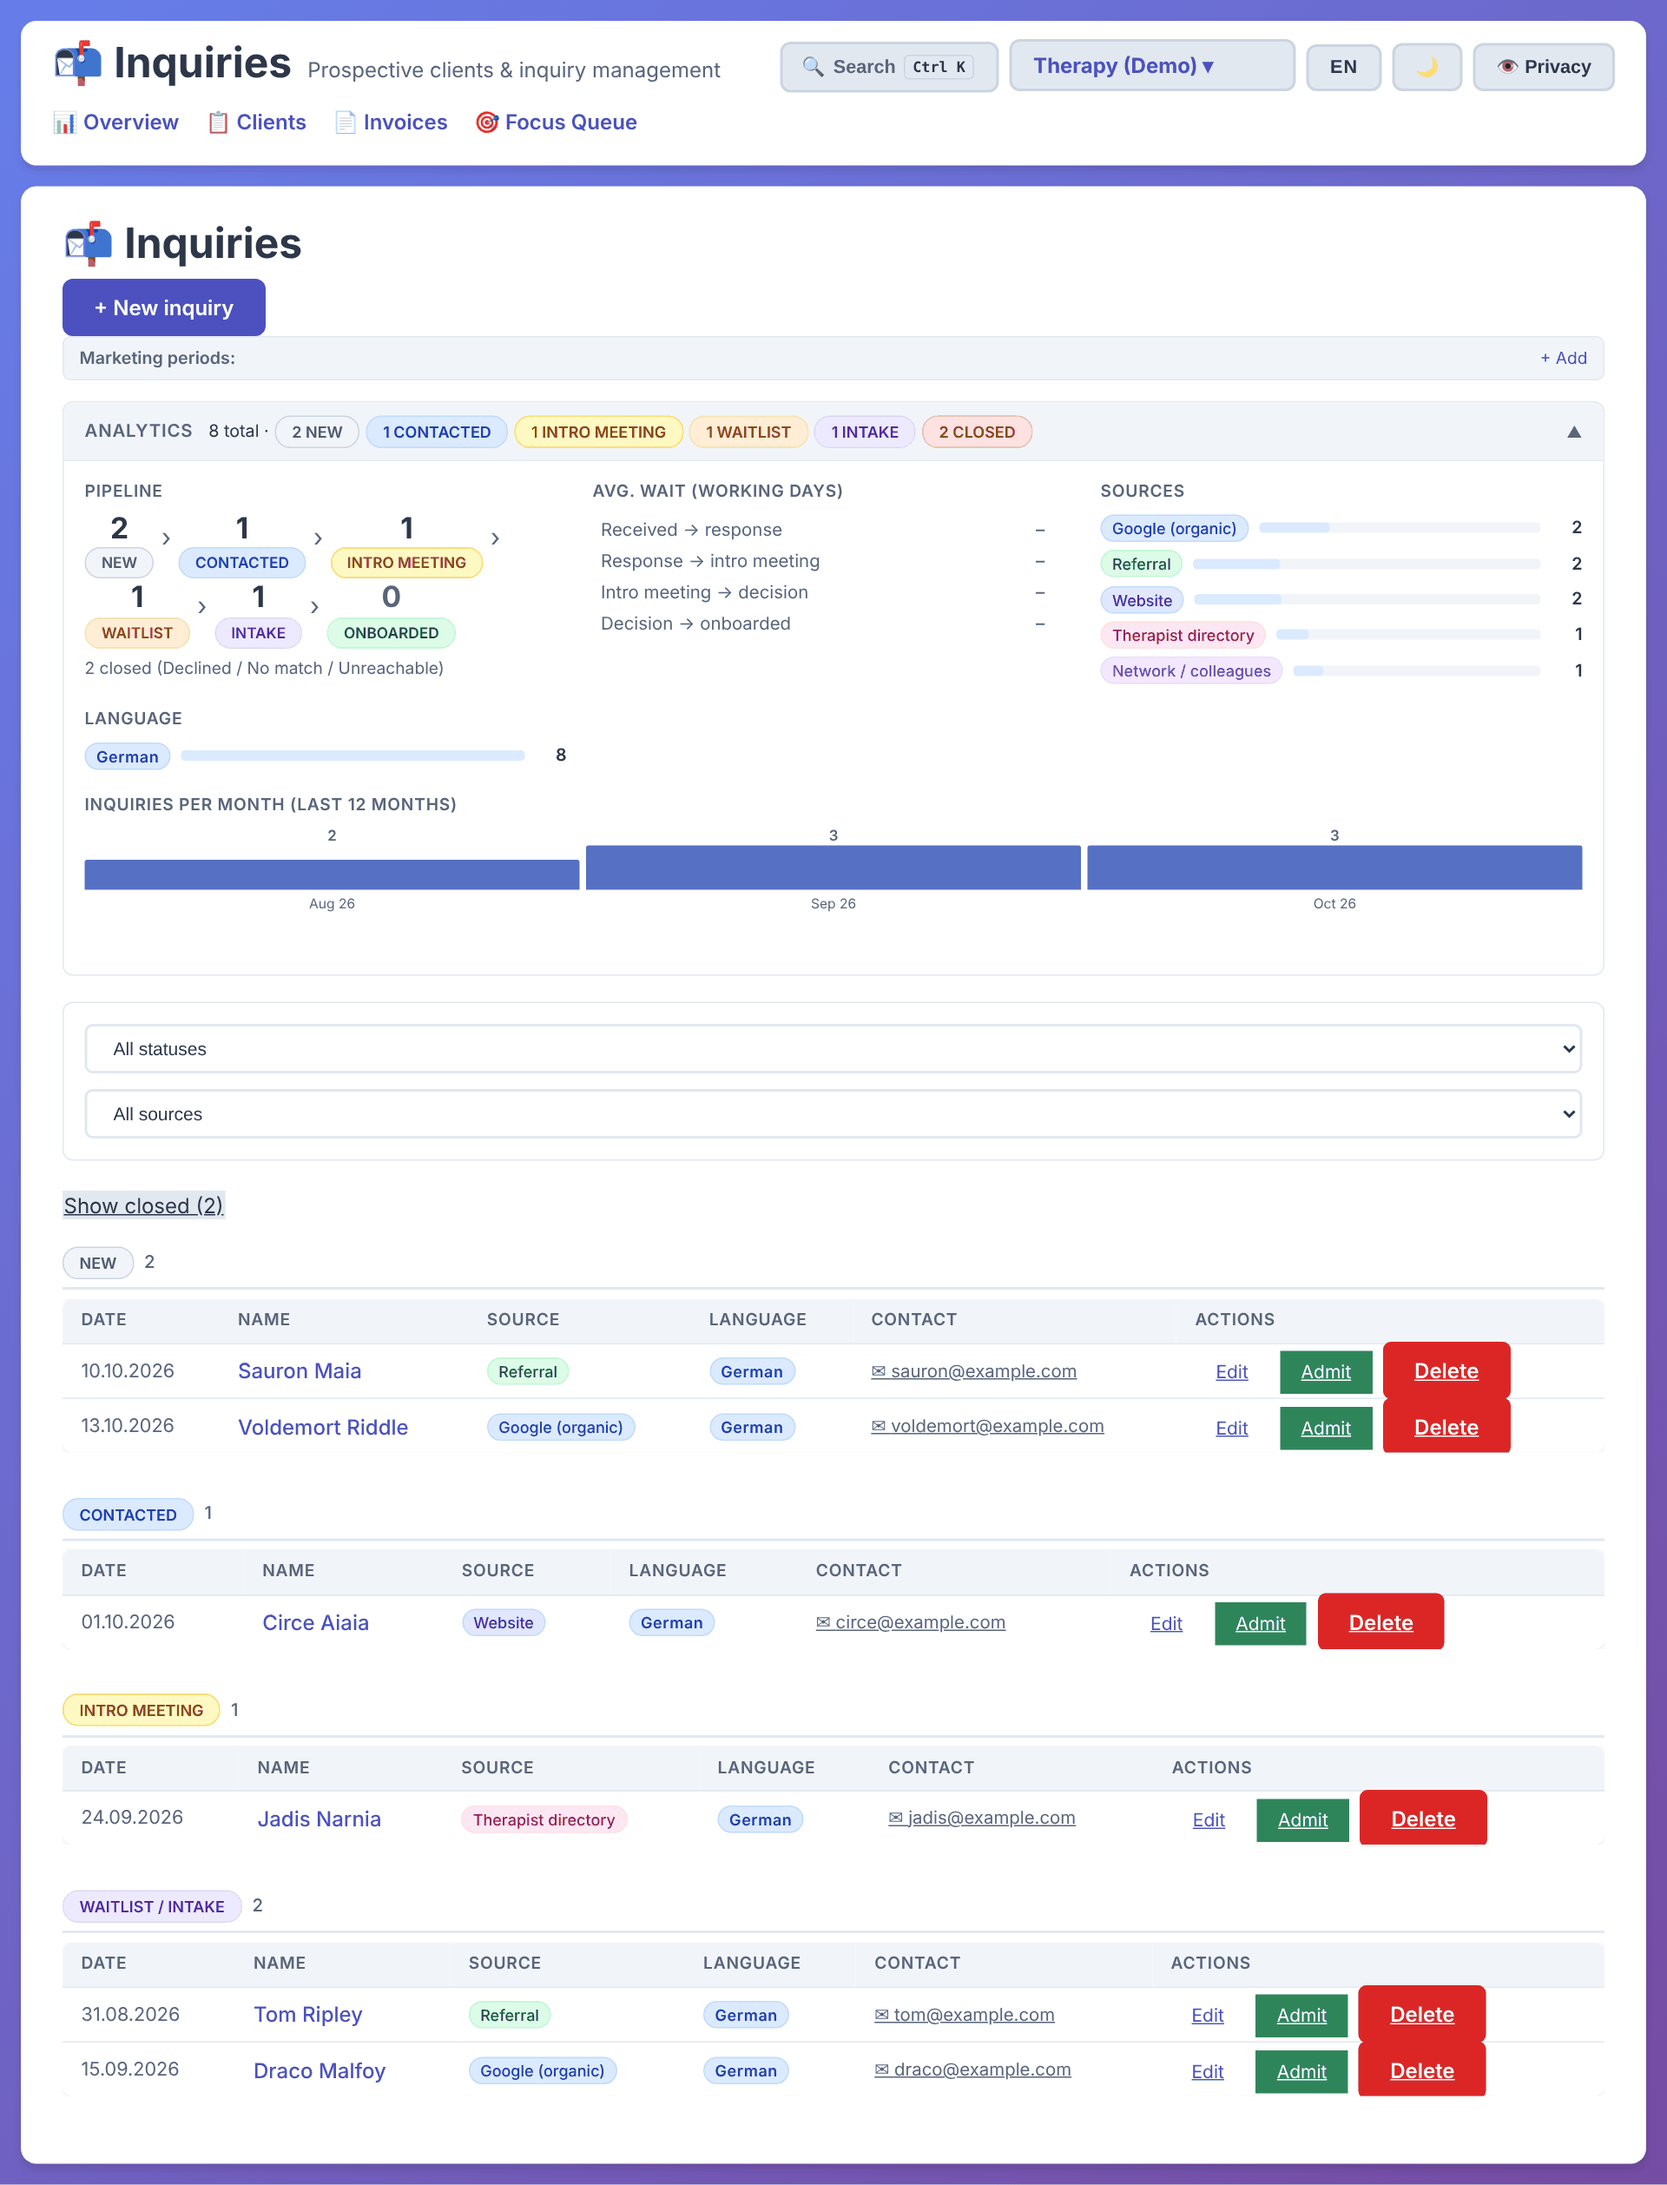
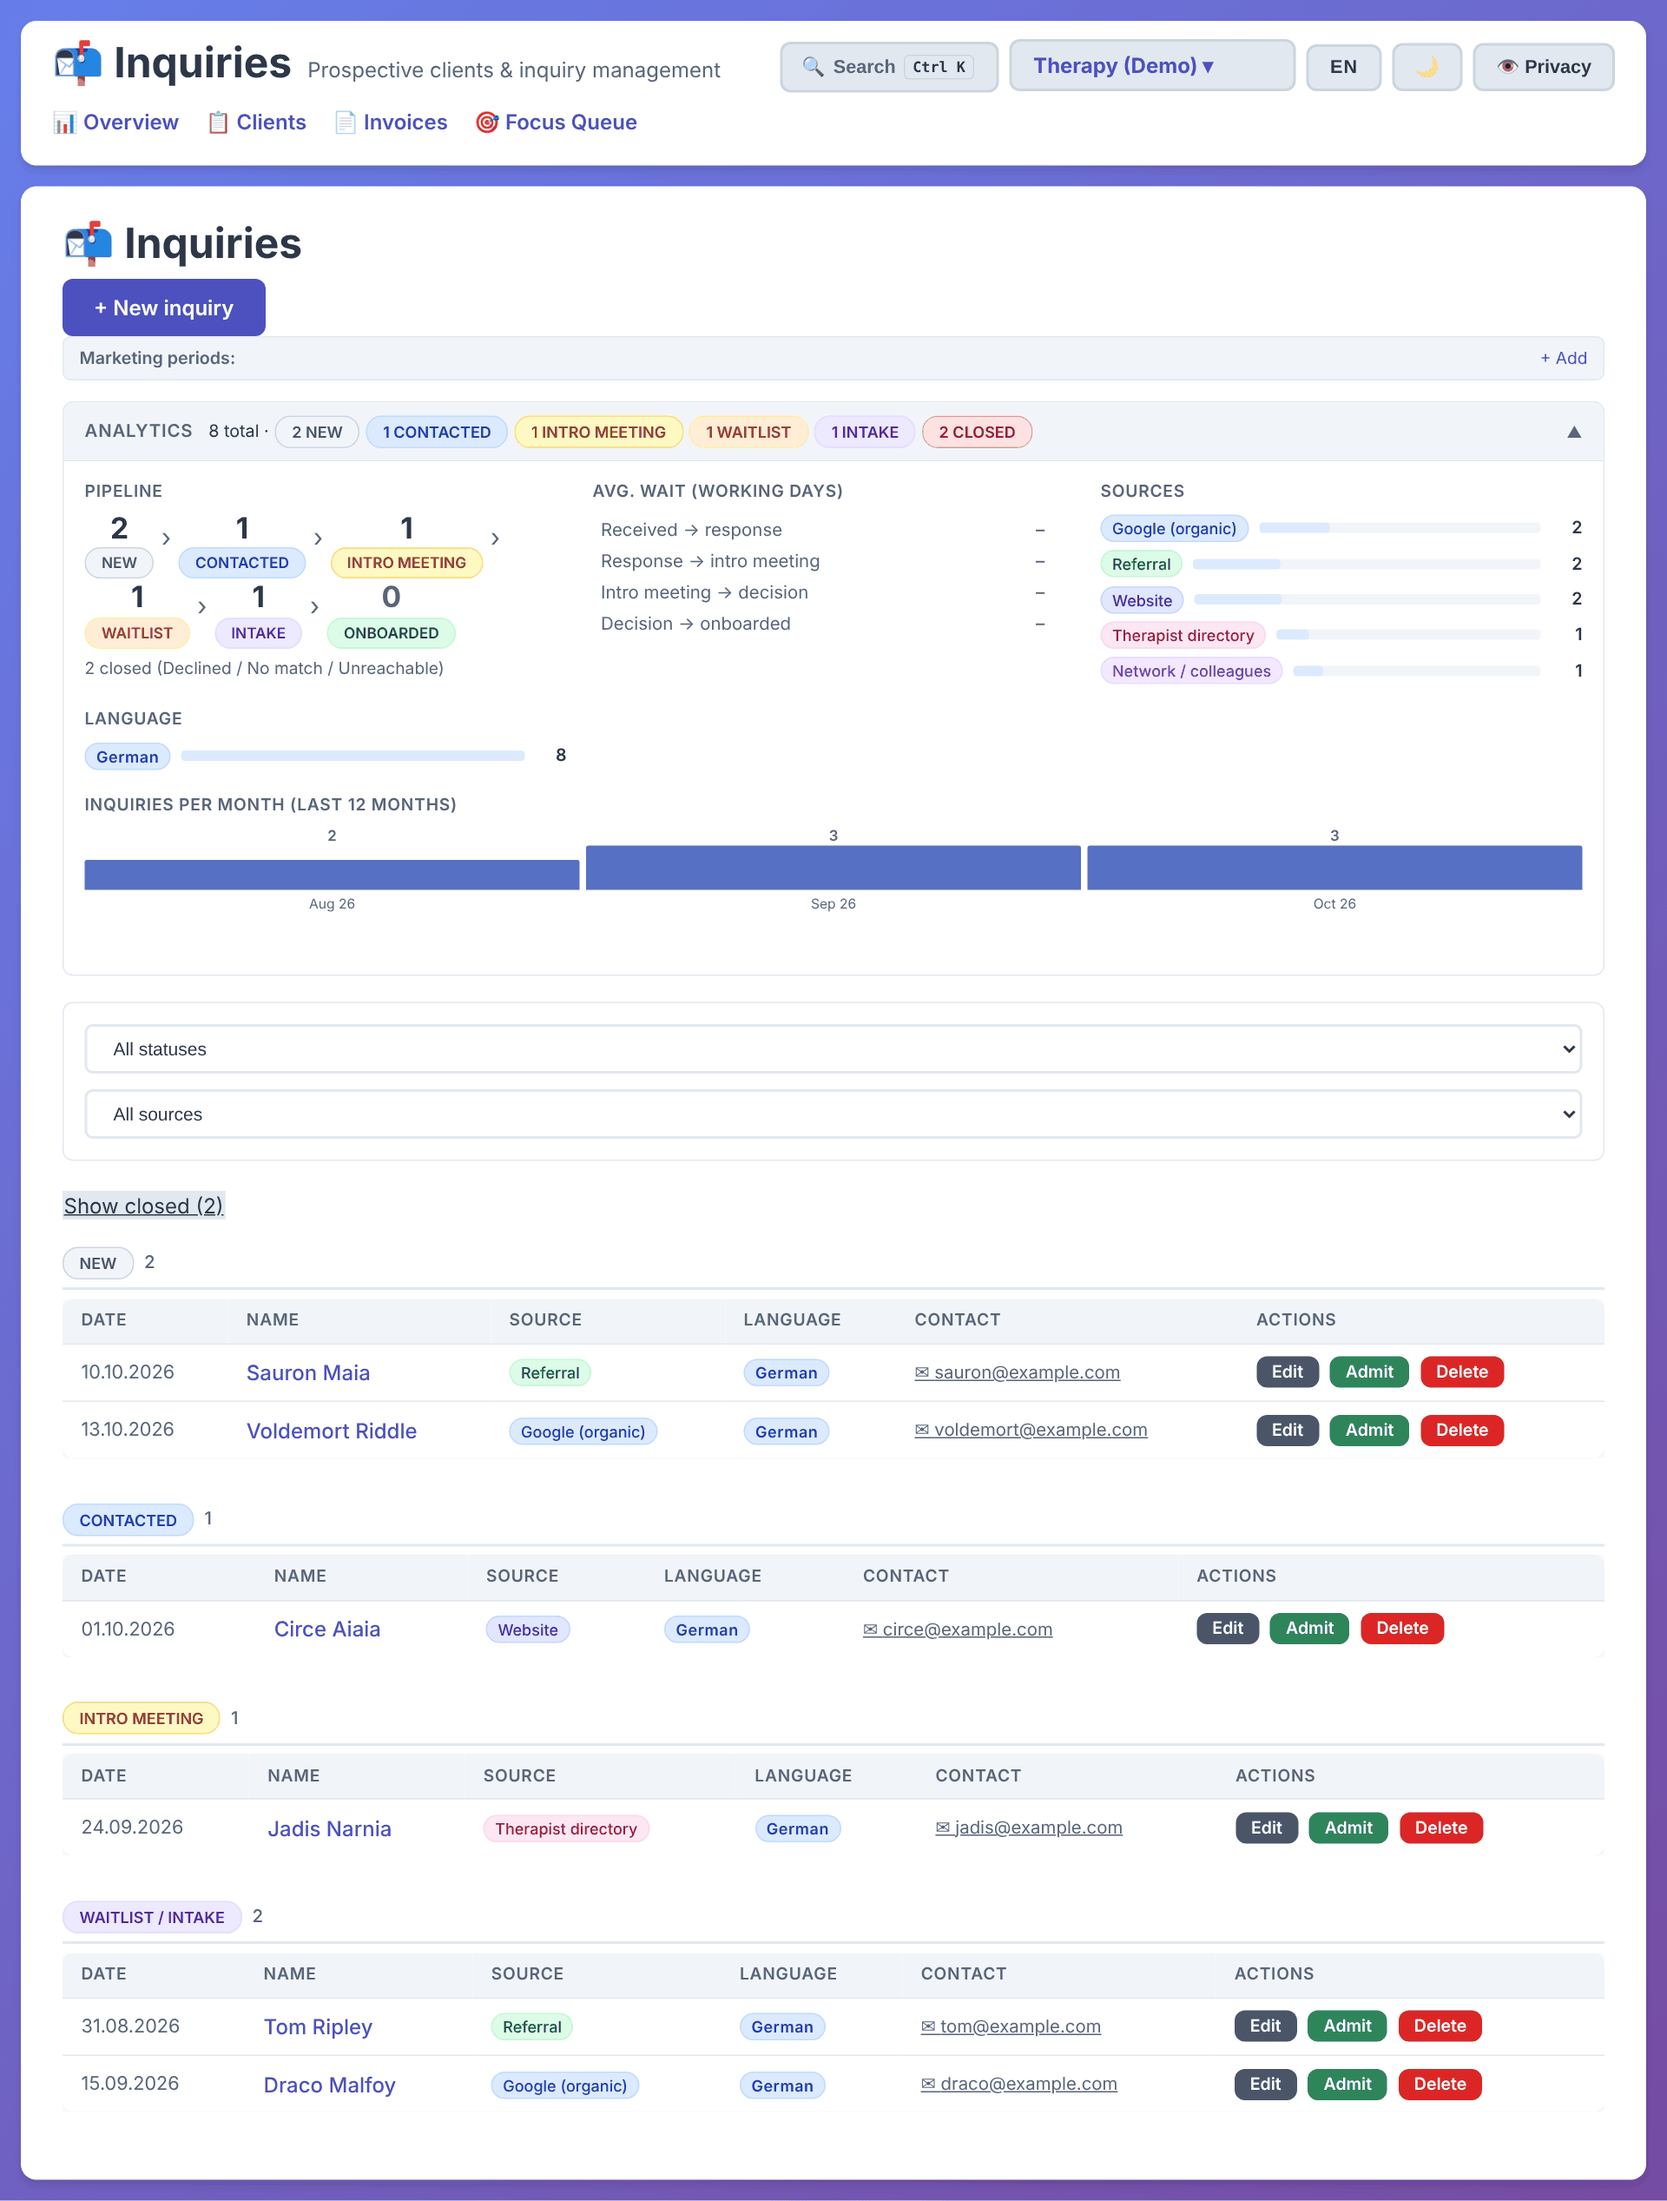
fix: inquiry row actions render as compact buttons
Edit/Admit/Delete in the inquiries table were bare links classed
`btn-sm` without the `.btn` base, so they kept the link underline and
`.btn-danger` (declared after `.btn-sm`) overrode the small padding and
font size: Delete rendered as an oversized underlined block next to an
unrounded Admit and a plain Edit link.

Use the `.btn` base with secondary/success/danger variants and size them
down inside `.inquiry-actions`. `.btn-success` had the same specificity
problem `.btn-danger` already had (`.btn` comes later and wins, so a
`btn btn-success` painted in the primary colour); scope it to `.btn` the
same way. That also turns the "add" buttons on the withdrawal and
time-off lists and bank review's auto-match button green, as their
markup always intended.

Retake the inquiries screenshot with the fix.

Claude-Session: https://claude.ai/code/session_01B8G6JH7op3SBVWquUf6j9A

diff --git a/app/templates/my_practice/inquiry_list.html b/app/templates/my_practice/inquiry_list.html
@@ -203,11 +203,11 @@
                         {% if inquiry.phone %}<span class="contact-link">☎ <span class="sensitive-data">{{ inquiry.phone }}</span></span>{% endif %}
                     </td>
                     <td class="inquiry-actions">
-                        <a href="{% url 'inquiry_edit' inquiry.pk %}" class="btn-sm">{% trans "Edit" %}</a>
+                        <a href="{% url 'inquiry_edit' inquiry.pk %}" class="btn btn-secondary">{% trans "Edit" %}</a>
                         {% if inquiry.status != 'converted' and not inquiry.converted_client %}
-                        <a href="{% url 'inquiry_convert' inquiry.pk %}" class="btn-sm btn-success">{% trans "Admit" %}</a>
+                        <a href="{% url 'inquiry_convert' inquiry.pk %}" class="btn btn-success">{% trans "Admit" %}</a>
                         {% endif %}
-                        <a href="{% url 'inquiry_delete' inquiry.pk %}" class="btn-sm btn-danger">{% trans "Delete" %}</a>
+                        <a href="{% url 'inquiry_delete' inquiry.pk %}" class="btn btn-danger">{% trans "Delete" %}</a>
                     </td>
                 </tr>
                 {% endfor %}
@@ -251,11 +251,11 @@
                             {% if inquiry.phone %}<span class="contact-link">☎ <span class="sensitive-data">{{ inquiry.phone }}</span></span>{% endif %}
                         </td>
                         <td class="inquiry-actions">
-                            <a href="{% url 'inquiry_edit' inquiry.pk %}" class="btn-sm">{% trans "Edit" %}</a>
+                            <a href="{% url 'inquiry_edit' inquiry.pk %}" class="btn btn-secondary">{% trans "Edit" %}</a>
                             {% if inquiry.status != 'converted' and not inquiry.converted_client %}
-                            <a href="{% url 'inquiry_convert' inquiry.pk %}" class="btn-sm btn-success">{% trans "Admit" %}</a>
+                            <a href="{% url 'inquiry_convert' inquiry.pk %}" class="btn btn-success">{% trans "Admit" %}</a>
                             {% endif %}
-                            <a href="{% url 'inquiry_delete' inquiry.pk %}" class="btn-sm btn-danger">{% trans "Delete" %}</a>
+                            <a href="{% url 'inquiry_delete' inquiry.pk %}" class="btn btn-danger">{% trans "Delete" %}</a>
                         </td>
                     </tr>
                     {% endfor %}

diff --git a/app/static/css/tailwind.css b/app/static/css/tailwind.css
@@ -826,7 +826,7 @@
   .inquiry-contact { font-size: 0.85rem; }
   .contact-link { display: block; color: var(--color-text-muted); }
   .inquiry-actions { white-space: nowrap; }
-  .inquiry-actions .btn-sm { margin-right: 0.25rem; }
+  .inquiry-actions .btn { padding: 0.25rem 0.75rem; font-size: 0.8125rem; margin-right: 0.25rem; }
   .source-badge { display: inline-block; padding: 2px 8px; border-radius: 12px; font-size: 0.75rem; font-weight: 500; border: 1px solid transparent; }
   .source-google_ads      { background: var(--color-badge-amber-bg);   color: var(--color-badge-amber-text);   border-color: var(--color-badge-amber-border); }
   .source-google_organic  { background: var(--color-badge-blue-bg);    color: var(--color-badge-blue-text);    border-color: var(--color-badge-blue-border); }
@@ -2143,6 +2143,10 @@
   .btn.btn-danger { background: #dc2626; }
 
   .btn.btn-danger:hover { background: #b91c1c; }
+
+  .btn.btn-success { background: #2f855a; }
+
+  .btn.btn-success:hover { background: #276749; }
 
   .messages { margin-bottom: 1rem; }
 
